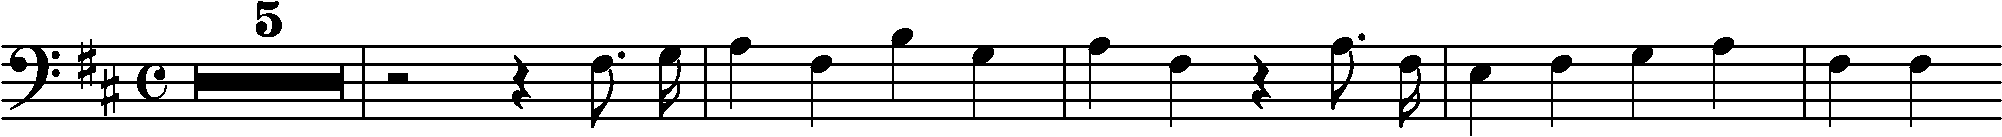
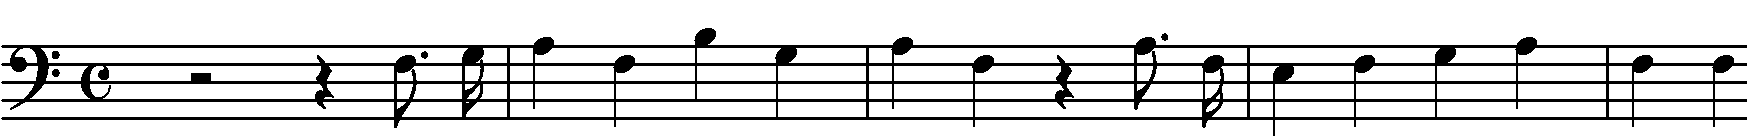
Geração de MIDI dataset PRIMUS

diff --git a/services/Reconstruction.py b/services/Reconstruction.py
@@ -87,7 +87,8 @@ class Reconstruction:
 			'timeSignature-3/4': [3, 4],
 			'timeSignature-4/4': [4, 4],
 			'timeSignature-6/4': [6, 4],
-			'timeSignature-6/8': [6, 8]
+			'timeSignature-6/8': [6, 8],
+			'timeSignature-C': [4, 4]
 		}
 
 		PITCHS = {
